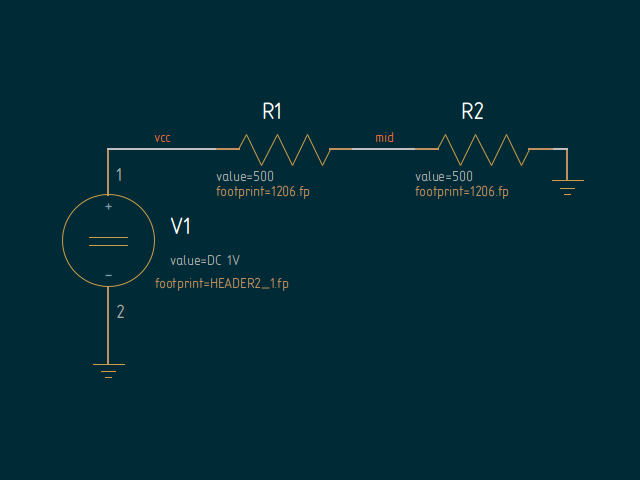
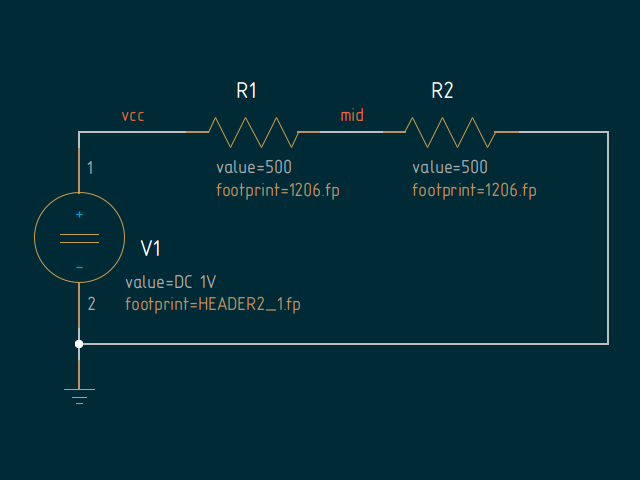
sch/simple: less syms, realign attrs, inc txt size

diff --git a/sch/simple/simple.sch.html b/sch/simple/simple.sch.html
@@ -3,7 +3,7 @@
 <head>
 <meta charset="UTF-8">
 <title>sch/simple/simple.sch - Lepton EDA - graahnul-grom.github.io</title>
-<meta name="Generator" content="Vim/8.1">
+<meta name="Generator" content="Vim/8.2">
 <meta name="plugin-version" content="vim8.1_v2">
 <meta name="syntax" content="c">
 <meta name="settings" content="number_lines,use_css,no_foldcolumn,expand_tabs,line_ids,prevent_copy=,use_input_for_pc=fallback">
@@ -20,55 +20,58 @@ body { font-family: monospace; color: #839496; background-color: #002b36; }
 </style>
 
 </head>
-<body>
+<body onload='JumpToLine();'>
 <pre id='vimCodeElement'>
-<span id="L1" class="LineNr"> 1 </span>v <span class="Number">20191003</span> <span class="Number">2</span>
-<span id="L2" class="LineNr"> 2 </span>C <span class="Number">41800</span> <span class="Number">42600</span> <span class="Number">1</span> <span class="Number">0</span> <span class="Number">0</span> resistor-<span class="Float">1.</span>sym
+<span id="L1" class="LineNr"> 1 </span>v <span class="Number">20200604</span> <span class="Number">2</span>
+<span id="L2" class="LineNr"> 2 </span>C <span class="Number">41800</span> <span class="Number">42700</span> <span class="Number">1</span> <span class="Number">0</span> <span class="Number">0</span> resistor-<span class="Float">1.</span>sym
 <span id="L3" class="LineNr"> 3 </span>{
-<span id="L4" class="LineNr"> 4 </span>T <span class="Number">42100</span> <span class="Number">43000</span> <span class="Number">5</span> <span class="Number">10</span> <span class="Number">0</span> <span class="Number">0</span> <span class="Number">0</span> <span class="Number">0</span> <span class="Number">1</span>
+<span id="L4" class="LineNr"> 4 </span>T <span class="Number">42100</span> <span class="Number">43100</span> <span class="Number">5</span> <span class="Number">10</span> <span class="Number">0</span> <span class="Number">0</span> <span class="Number">0</span> <span class="Number">0</span> <span class="Number">1</span>
 <span id="L5" class="LineNr"> 5 </span>device=RESISTOR
-<span id="L6" class="LineNr"> 6 </span>T <span class="Number">42100</span> <span class="Number">42900</span> <span class="Number">21</span> <span class="Number">10</span> <span class="Number">1</span> <span class="Number">1</span> <span class="Number">0</span> <span class="Number">0</span> <span class="Number">1</span>
+<span id="L6" class="LineNr"> 6 </span>T <span class="Number">42200</span> <span class="Number">43000</span> <span class="Number">21</span> <span class="Number">10</span> <span class="Number">1</span> <span class="Number">1</span> <span class="Number">0</span> <span class="Number">3</span> <span class="Number">1</span>
 <span id="L7" class="LineNr"> 7 </span>refdes=R1
-<span id="L8" class="LineNr"> 8 </span>T <span class="Number">41800</span> <span class="Number">42400</span> <span class="Number">1</span> <span class="Number">6</span> <span class="Number">1</span> <span class="Number">0</span> <span class="Number">0</span> <span class="Number">0</span> <span class="Number">1</span>
+<span id="L8" class="LineNr"> 8 </span>T <span class="Number">42000</span> <span class="Number">42500</span> <span class="Number">1</span> <span class="Number">8</span> <span class="Number">1</span> <span class="Number">0</span> <span class="Number">0</span> <span class="Number">2</span> <span class="Number">1</span>
 <span id="L9" class="LineNr"> 9 </span>footprint=<span class="Float">1206.f</span>p
-<span id="L10" class="LineNr">10 </span>T <span class="Number">41800</span> <span class="Number">42500</span> <span class="Number">5</span> <span class="Number">6</span> <span class="Number">1</span> <span class="Number">0</span> <span class="Number">0</span> <span class="Number">0</span> <span class="Number">1</span>
+<span id="L10" class="LineNr">10 </span>T <span class="Number">42000</span> <span class="Number">42650</span> <span class="Number">5</span> <span class="Number">8</span> <span class="Number">1</span> <span class="Number">0</span> <span class="Number">0</span> <span class="Number">2</span> <span class="Number">1</span>
 <span id="L11" class="LineNr">11 </span>value=<span class="Number">500</span>
 <span id="L12" class="LineNr">12 </span>}
-<span id="L13" class="LineNr">13 </span>C <span class="Number">44000</span> <span class="Number">42400</span> <span class="Number">1</span> <span class="Number">0</span> <span class="Number">0</span> gnd-<span class="Float">1.</span>sym
-<span id="L14" class="LineNr">14 </span>C <span class="Number">40800</span> <span class="Number">41500</span> <span class="Number">1</span> <span class="Number">0</span> <span class="Number">0</span> vdc-<span class="Float">1.</span>sym
-<span id="L15" class="LineNr">15 </span>{
-<span id="L16" class="LineNr">16 </span>T <span class="Number">41500</span> <span class="Number">42150</span> <span class="Number">21</span> <span class="Number">10</span> <span class="Number">1</span> <span class="Number">1</span> <span class="Number">0</span> <span class="Number">0</span> <span class="Number">1</span>
-<span id="L17" class="LineNr">17 </span>refdes=V1
-<span id="L18" class="LineNr">18 </span>T <span class="Number">41500</span> <span class="Number">42350</span> <span class="Number">5</span> <span class="Number">10</span> <span class="Number">0</span> <span class="Number">0</span> <span class="Number">0</span> <span class="Number">0</span> <span class="Number">1</span>
-<span id="L19" class="LineNr">19 </span>device=VOLTAGE_SOURCE
-<span id="L20" class="LineNr">20 </span>T <span class="Number">41500</span> <span class="Number">41950</span> <span class="Number">5</span> <span class="Number">6</span> <span class="Number">1</span> <span class="Number">0</span> <span class="Number">0</span> <span class="Number">0</span> <span class="Number">1</span>
-<span id="L21" class="LineNr">21 </span>value=DC 1V
-<span id="L22" class="LineNr">22 </span>T <span class="Number">41400</span> <span class="Number">41800</span> <span class="Number">1</span> <span class="Number">6</span> <span class="Number">1</span> <span class="Number">0</span> <span class="Number">0</span> <span class="Number">0</span> <span class="Number">1</span>
-<span id="L23" class="LineNr">23 </span>footprint=HEADER2_1.fp
-<span id="L24" class="LineNr">24 </span>}
-<span id="L25" class="LineNr">25 </span>N <span class="Number">41800</span> <span class="Number">42700</span> <span class="Number">41100</span> <span class="Number">42700</span> <span class="Number">4</span>
-<span id="L26" class="LineNr">26 </span>{
-<span id="L27" class="LineNr">27 </span>T <span class="Number">41450</span> <span class="Number">42750</span> <span class="Number">6</span> <span class="Number">6</span> <span class="Number">1</span> <span class="Number">1</span> <span class="Number">0</span> <span class="Number">3</span> <span class="Number">1</span>
-<span id="L28" class="LineNr">28 </span>netname=vcc
-<span id="L29" class="LineNr">29 </span>}
-<span id="L30" class="LineNr">30 </span>N <span class="Number">44000</span> <span class="Number">42700</span> <span class="Number">44100</span> <span class="Number">42700</span> <span class="Number">4</span>
-<span id="L31" class="LineNr">31 </span>C <span class="Number">41000</span> <span class="Number">41200</span> <span class="Number">1</span> <span class="Number">0</span> <span class="Number">0</span> gnd-<span class="Float">1.</span>sym
-<span id="L32" class="LineNr">32 </span>C <span class="Number">43100</span> <span class="Number">42600</span> <span class="Number">1</span> <span class="Number">0</span> <span class="Number">0</span> resistor-<span class="Float">1.</span>sym
-<span id="L33" class="LineNr">33 </span>{
-<span id="L34" class="LineNr">34 </span>T <span class="Number">43400</span> <span class="Number">43000</span> <span class="Number">5</span> <span class="Number">10</span> <span class="Number">0</span> <span class="Number">0</span> <span class="Number">0</span> <span class="Number">0</span> <span class="Number">1</span>
-<span id="L35" class="LineNr">35 </span>device=RESISTOR
-<span id="L36" class="LineNr">36 </span>T <span class="Number">43400</span> <span class="Number">42900</span> <span class="Number">21</span> <span class="Number">10</span> <span class="Number">1</span> <span class="Number">1</span> <span class="Number">0</span> <span class="Number">0</span> <span class="Number">1</span>
-<span id="L37" class="LineNr">37 </span>refdes=R2
-<span id="L38" class="LineNr">38 </span>T <span class="Number">43100</span> <span class="Number">42400</span> <span class="Number">1</span> <span class="Number">6</span> <span class="Number">1</span> <span class="Number">0</span> <span class="Number">0</span> <span class="Number">0</span> <span class="Number">1</span>
-<span id="L39" class="LineNr">39 </span>footprint=<span class="Float">1206.f</span>p
-<span id="L40" class="LineNr">40 </span>T <span class="Number">43100</span> <span class="Number">42500</span> <span class="Number">5</span> <span class="Number">6</span> <span class="Number">1</span> <span class="Number">0</span> <span class="Number">0</span> <span class="Number">0</span> <span class="Number">1</span>
-<span id="L41" class="LineNr">41 </span>value=<span class="Number">500</span>
-<span id="L42" class="LineNr">42 </span>}
-<span id="L43" class="LineNr">43 </span>N <span class="Number">43100</span> <span class="Number">42700</span> <span class="Number">42700</span> <span class="Number">42700</span> <span class="Number">4</span>
-<span id="L44" class="LineNr">44 </span>{
-<span id="L45" class="LineNr">45 </span>T <span class="Number">42900</span> <span class="Number">42750</span> <span class="Number">6</span> <span class="Number">6</span> <span class="Number">1</span> <span class="Number">1</span> <span class="Number">0</span> <span class="Number">3</span> <span class="Number">1</span>
-<span id="L46" class="LineNr">46 </span>netname=mid
-<span id="L47" class="LineNr">47 </span>}
+<span id="L13" class="LineNr">13 </span>C <span class="Number">40800</span> <span class="Number">41500</span> <span class="Number">1</span> <span class="Number">0</span> <span class="Number">0</span> vdc-<span class="Float">1.</span>sym
+<span id="L14" class="LineNr">14 </span>{
+<span id="L15" class="LineNr">15 </span>T <span class="Number">41500</span> <span class="Number">41950</span> <span class="Number">21</span> <span class="Number">10</span> <span class="Number">1</span> <span class="Number">1</span> <span class="Number">0</span> <span class="Number">0</span> <span class="Number">1</span>
+<span id="L16" class="LineNr">16 </span>refdes=V1
+<span id="L17" class="LineNr">17 </span>T <span class="Number">41500</span> <span class="Number">42350</span> <span class="Number">5</span> <span class="Number">10</span> <span class="Number">0</span> <span class="Number">0</span> <span class="Number">0</span> <span class="Number">0</span> <span class="Number">1</span>
+<span id="L18" class="LineNr">18 </span>device=VOLTAGE_SOURCE
+<span id="L19" class="LineNr">19 </span>T <span class="Number">41400</span> <span class="Number">41750</span> <span class="Number">5</span> <span class="Number">8</span> <span class="Number">1</span> <span class="Number">0</span> <span class="Number">0</span> <span class="Number">0</span> <span class="Number">1</span>
+<span id="L20" class="LineNr">20 </span>value=DC 1V
+<span id="L21" class="LineNr">21 </span>T <span class="Number">41400</span> <span class="Number">41600</span> <span class="Number">1</span> <span class="Number">8</span> <span class="Number">1</span> <span class="Number">0</span> <span class="Number">0</span> <span class="Number">0</span> <span class="Number">1</span>
+<span id="L22" class="LineNr">22 </span>footprint=HEADER2_1.fp
+<span id="L23" class="LineNr">23 </span>}
+<span id="L24" class="LineNr">24 </span>N <span class="Number">41800</span> <span class="Number">42800</span> <span class="Number">41100</span> <span class="Number">42800</span> <span class="Number">4</span>
+<span id="L25" class="LineNr">25 </span>{
+<span id="L26" class="LineNr">26 </span>T <span class="Number">41450</span> <span class="Number">42850</span> <span class="Number">6</span> <span class="Number">8</span> <span class="Number">1</span> <span class="Number">1</span> <span class="Number">0</span> <span class="Number">3</span> <span class="Number">1</span>
+<span id="L27" class="LineNr">27 </span>netname=vcc
+<span id="L28" class="LineNr">28 </span>}
+<span id="L29" class="LineNr">29 </span>N <span class="Number">44000</span> <span class="Number">42800</span> <span class="Number">44600</span> <span class="Number">42800</span> <span class="Number">4</span>
+<span id="L30" class="LineNr">30 </span>C <span class="Number">41000</span> <span class="Number">41000</span> <span class="Number">1</span> <span class="Number">0</span> <span class="Number">0</span> gnd-<span class="Float">1.</span>sym
+<span id="L31" class="LineNr">31 </span>C <span class="Number">43100</span> <span class="Number">42700</span> <span class="Number">1</span> <span class="Number">0</span> <span class="Number">0</span> resistor-<span class="Float">1.</span>sym
+<span id="L32" class="LineNr">32 </span>{
+<span id="L33" class="LineNr">33 </span>T <span class="Number">43400</span> <span class="Number">43100</span> <span class="Number">5</span> <span class="Number">10</span> <span class="Number">0</span> <span class="Number">0</span> <span class="Number">0</span> <span class="Number">0</span> <span class="Number">1</span>
+<span id="L34" class="LineNr">34 </span>device=RESISTOR
+<span id="L35" class="LineNr">35 </span>T <span class="Number">43500</span> <span class="Number">43000</span> <span class="Number">21</span> <span class="Number">10</span> <span class="Number">1</span> <span class="Number">1</span> <span class="Number">0</span> <span class="Number">3</span> <span class="Number">1</span>
+<span id="L36" class="LineNr">36 </span>refdes=R2
+<span id="L37" class="LineNr">37 </span>T <span class="Number">43300</span> <span class="Number">42500</span> <span class="Number">1</span> <span class="Number">8</span> <span class="Number">1</span> <span class="Number">0</span> <span class="Number">0</span> <span class="Number">2</span> <span class="Number">1</span>
+<span id="L38" class="LineNr">38 </span>footprint=<span class="Float">1206.f</span>p
+<span id="L39" class="LineNr">39 </span>T <span class="Number">43300</span> <span class="Number">42650</span> <span class="Number">5</span> <span class="Number">8</span> <span class="Number">1</span> <span class="Number">0</span> <span class="Number">0</span> <span class="Number">2</span> <span class="Number">1</span>
+<span id="L40" class="LineNr">40 </span>value=<span class="Number">500</span>
+<span id="L41" class="LineNr">41 </span>}
+<span id="L42" class="LineNr">42 </span>N <span class="Number">43100</span> <span class="Number">42800</span> <span class="Number">42700</span> <span class="Number">42800</span> <span class="Number">4</span>
+<span id="L43" class="LineNr">43 </span>{
+<span id="L44" class="LineNr">44 </span>T <span class="Number">42900</span> <span class="Number">42850</span> <span class="Number">6</span> <span class="Number">8</span> <span class="Number">1</span> <span class="Number">1</span> <span class="Number">0</span> <span class="Number">3</span> <span class="Number">1</span>
+<span id="L45" class="LineNr">45 </span>netname=mid
+<span id="L46" class="LineNr">46 </span>}
+<span id="L47" class="LineNr">47 </span>N <span class="Number">41100</span> <span class="Number">41300</span> <span class="Number">41100</span> <span class="Number">41500</span> <span class="Number">4</span>
+<span id="L48" class="LineNr">48 </span>N <span class="Number">44600</span> <span class="Number">42800</span> <span class="Number">44600</span> <span class="Number">41400</span> <span class="Number">4</span>
+<span id="L49" class="LineNr">49 </span>N <span class="Number">44600</span> <span class="Number">41400</span> <span class="Number">41100</span> <span class="Number">41400</span> <span class="Number">4</span>
+<span id="L50" class="LineNr">50 </span>N <span class="Number">41100</span> <span class="Number">42800</span> <span class="Number">41100</span> <span class="Number">42700</span> <span class="Number">4</span>
 </pre>
 </body>
 </html>

diff --git a/index.html b/index.html
@@ -280,7 +280,7 @@ gitmemory.com: <a href='https://www.gitmemory.com/lepton-eda/lepton-eda'>lepton-
 
 <br />
 <hr />
-updated: 05/Jun/2020
+updated: 07/Jun/2020
 &nbsp;&nbsp;
 [ <a href="https://github.com/graahnul-grom/graahnul-grom.github.io">site repo</a> ]
 &nbsp;&nbsp;&nbsp;&nbsp;

diff --git a/sch/index.html b/sch/index.html
@@ -34,7 +34,7 @@ simple schematic for testing
 - archive contains simple.sch and simple.symembedded.sch (with embedded symbols)
 <br />
 <br />
-<br />
+
 <a href="simple/simple.sch.html">simple.sch</a>:<br />
 <img src="simple/simple.png" />
 <br />
